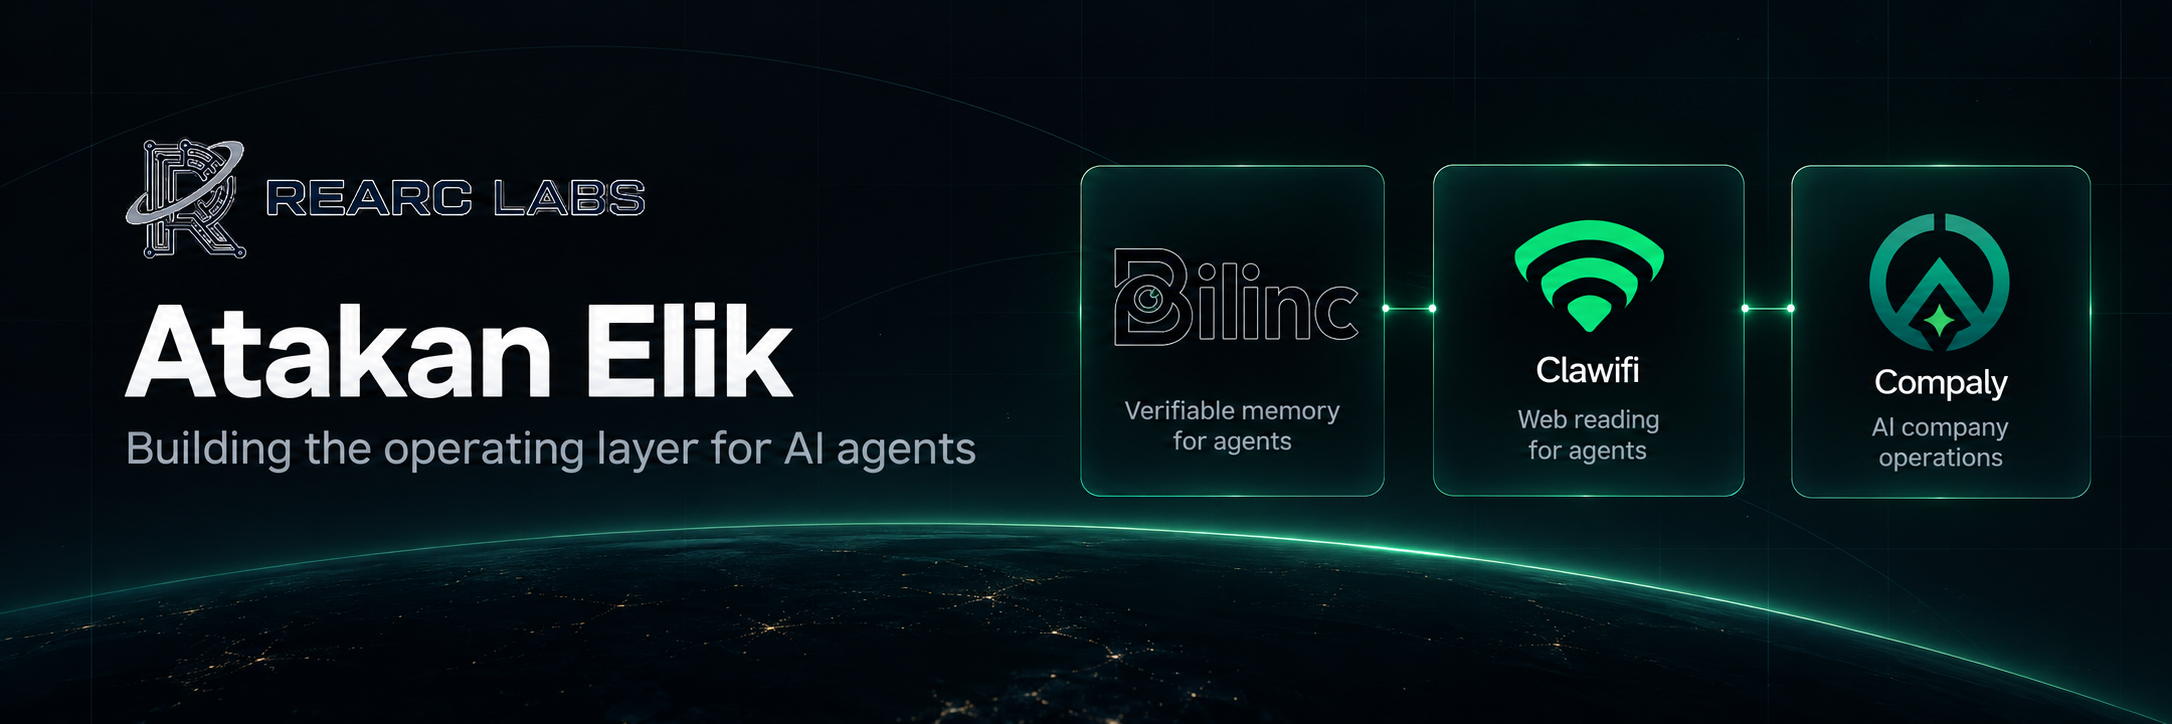
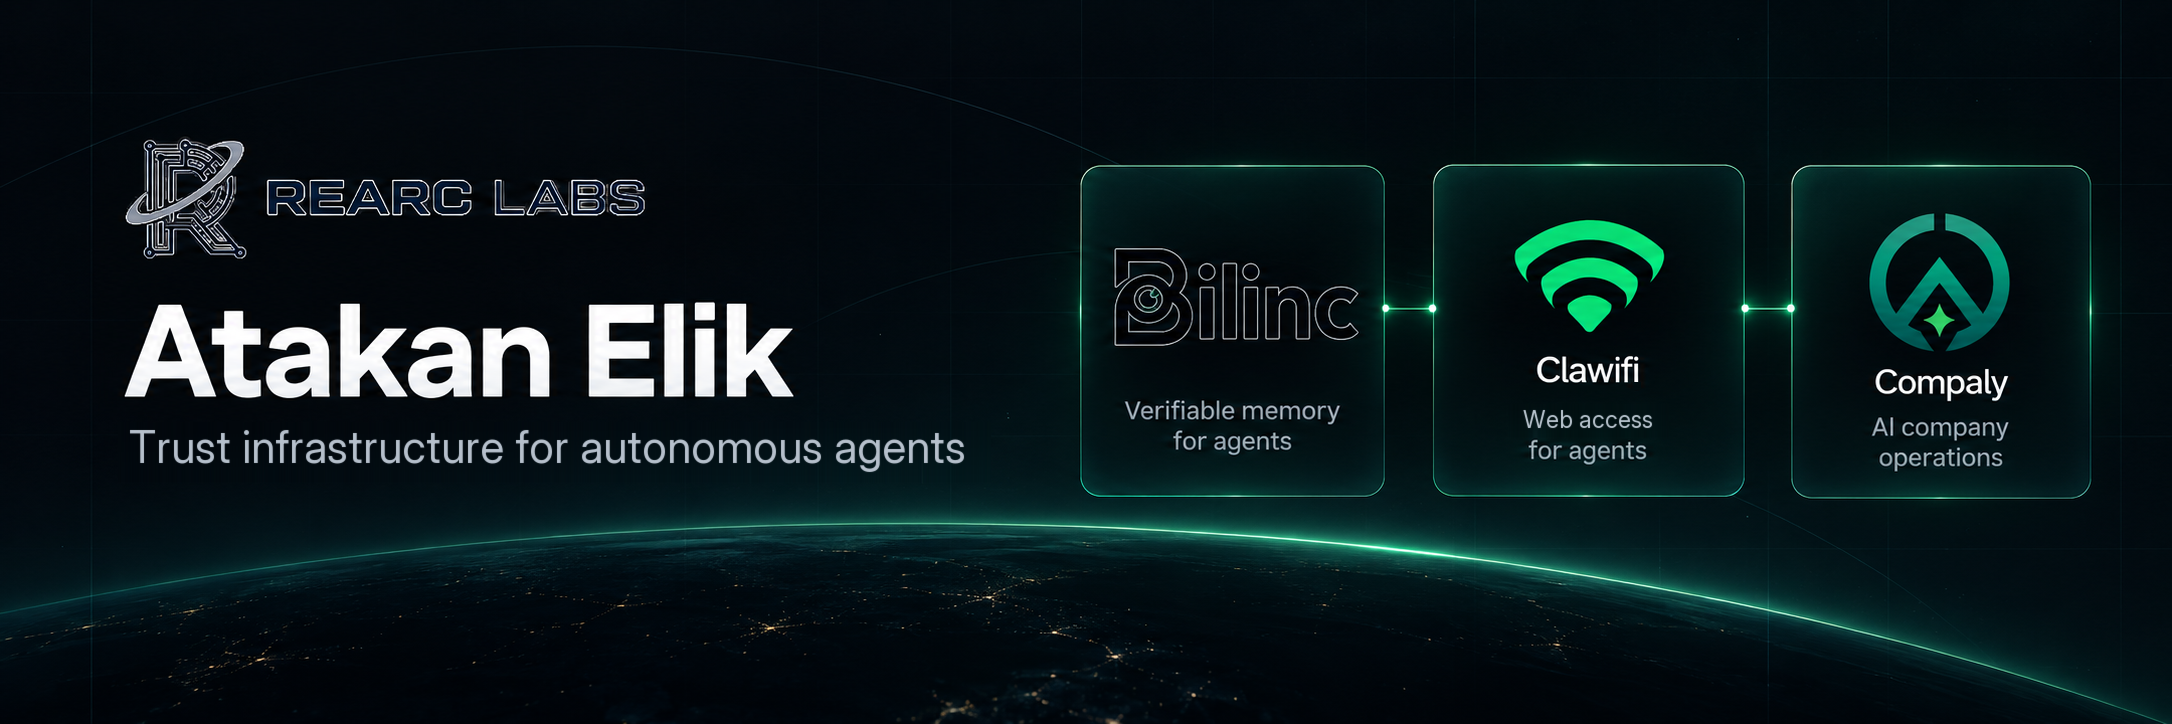
Profile: trust infrastructure line, try-it commands, current Bilinc and Clawifi copy
- heading names the founder and ReARC Labs; disambiguation from Rearc
- try-it block with the install and MCP commands from the live docs
- Bilinc and Clawifi cards match bilinc.space and clawifi.dev wording
- new repos: Bilinc Memory History and the Bilinc/Clawifi plugins
- banner subtitle and Clawifi card repainted to match the sites
- drop the stack row, language badges and stat cards

Changed region(s): [[0.0617, 0.5773, 0.4627, 0.6685], [0.6786, 0.547, 0.7712, 0.6077]]

diff --git a/README.md b/README.md
@@ -1,23 +1,32 @@
 <div align="center">
-  <img src="./assets/rearc-agent-layer.png" alt="Atakan Elik — ReARC Labs agent infrastructure" width="100%" />
+  <img src="./assets/rearc-agent-layer.png" alt="Atakan Elik, ReARC Labs. Trust infrastructure for autonomous agents. Bilinc: verifiable memory for agents. Clawifi: web access for agents. Compaly: AI company operations." width="100%" />
 </div>
 
-<br />
+## Atakan Elik, founder of ReARC Labs
 
-<div align="center">
+I run [ReARC Labs Inc.](https://rearclabs.com) We build trust infrastructure for autonomous agents: what agents need before they can be trusted to act on their own. Today that is two products: **Bilinc**, verifiable memory for AI agents, and **Clawifi**, web access for AI agents.
 
-[![ReARC Labs](https://img.shields.io/badge/ReARC%20Labs-operating%20layer%20for%20agents-0B1220?style=for-the-badge)](https://rearclabs.com)
-[![Python](https://img.shields.io/badge/Python-agent%20systems-3776AB?style=for-the-badge&logo=python&logoColor=white)](https://www.python.org/)
-[![TypeScript](https://img.shields.io/badge/TypeScript-product%20surfaces-3178C6?style=for-the-badge&logo=typescript&logoColor=white)](https://www.typescriptlang.org/)
-[![MCP](https://img.shields.io/badge/MCP-tool%20native%20agents-111827?style=for-the-badge)](https://modelcontextprotocol.io/)
+ReARC Labs is the team behind Bilinc and Clawifi. It is not related to Rearc (rearc.io).
 
-</div>
+## Try it
 
-## Building the operating layer for autonomous agents
+```bash
+# Bilinc. Free tier, no card required. The login step opens your browser.
+pip install -U bilinc
+bilinc login
+bilinc quicktest
 
-I'm Atakan Elik, founder of **ReARC Labs**. I build infrastructure for agents that need to remember, read the web, and keep state that people can inspect.
+# Bilinc in Claude Code. You sign in through the browser.
+claude mcp add --transport http --scope user bilinc https://mcp.bilinc.space/mcp
 
-The thesis is simple: capable agents need more than model calls. They need durable, verifiable memory, reliable access to the web, and records that humans can check and roll back.
+# Clawifi in Claude Code. The hosted server works without a key as a trial.
+claude mcp add --transport http clawifi https://api.clawifi.dev/mcp
+
+# Clawifi Python client
+pip install clawifi
+```
+
+Nothing to install: the [Clawifi Playground](https://clawifi.dev/playground) runs with no sign-up.
 
 <table>
 <tr>
@@ -25,84 +34,55 @@ The thesis is simple: capable agents need more than model calls. They need durab
 
 ### Bilinc
 
-Verifiable memory for AI agents.
+Bilinc is verifiable memory for AI agents, made by ReARC Labs. It is a company brain your agents share: it keeps what they learn current, shows who wrote what, and lets you undo it.
 
-- commit, recall and revise agent state
-- provenance, snapshots, diff and rollback
-- hosted MCP connector, Python SDK and CLI
+- durable hosted memory with provenance, history and rollback
+- Python SDK, CLI and MCP connector, with setup guides for Claude Code, Codex, Cursor, ChatGPT, Claude Desktop and Hermes Agent
+- read your agent's memory as a folder of Markdown
 
-[Website →](https://bilinc.space) · [GitHub →](https://github.com/atakanelik34/Bilinc) · [PyPI →](https://pypi.org/project/bilinc/)
+[bilinc.space](https://bilinc.space) · [Install Bilinc](https://bilinc.space/install) · [Bilinc on GitHub](https://github.com/atakanelik34/Bilinc) · [Bilinc on PyPI](https://pypi.org/project/bilinc/)
 
 </td>
 <td width="50%" valign="top">
 
 ### Clawifi
 
-Web reading for AI agents.
+Clawifi is web access for AI agents, made by ReARC Labs. It searches many engines as one, reads pages and PDFs, and gives back the passages that answer the question, each with its source.
 
-- search the web, fetch and scrape pages and PDFs
-- map and crawl sites
-- only the passages that answer a question
-- remote MCP server, try it without a key
+- search, fetch, scrape, map, crawl and browse, plus batch jobs and monitors
+- hosted remote MCP, Python SDK, CLI and HTTP API
+- public beta; the Free plan includes 1,000 credits a month
 
-[Website →](https://clawifi.dev) · [GitHub →](https://github.com/atakanelik34/clawifi-mcp) · [PyPI →](https://pypi.org/project/clawifi/)
+[clawifi.dev](https://clawifi.dev) · [Clawifi quickstart](https://clawifi.dev/docs/quickstart) · [clawifi-mcp on GitHub](https://github.com/atakanelik34/clawifi-mcp) · [Clawifi on PyPI](https://pypi.org/project/clawifi/)
 
 </td>
 </tr>
 </table>
 
-## Current focus
+## More repos
 
-```txt
-memory layer      Bilinc      durable agent state, recall, provenance, rollback
-web layer         Clawifi     search, fetch, crawl, passages that answer, MCP
-company layer     Compaly     AI-native company operations (in development)
-```
+- [Bilinc Memory History](https://github.com/atakanelik34/bilinc-memory-history) keeps a local history of the memory files Claude Code and Hermes Agent write. See what changed, and put an old version back. Open source, MIT.
+- Bilinc plugins: [bilinc-cursor-plugin](https://github.com/atakanelik34/bilinc-cursor-plugin) · [bilinc-claude-plugin](https://github.com/ReARCLabs/bilinc-claude-plugin) · [bilinc-hermes-plugin](https://github.com/ReARCLabs/bilinc-hermes-plugin)
+- Clawifi plugin: [clawifi-claude-plugin](https://github.com/ReARCLabs/clawifi-claude-plugin)
 
-## Product surfaces
-
-- [ReARC Labs](https://rearclabs.com) — the company behind these products
-- [Bilinc](https://bilinc.space) — verifiable memory for AI agents
-- [Clawifi](https://clawifi.dev) — web reading for AI agents
-- [ARES Protocol](https://ares-protocol.xyz) — agent reputation research (paused)
-
-## Stack I keep close
-
-<p>
-  <img src="https://img.shields.io/badge/Python-0B1220?style=flat-square&logo=python&logoColor=3776AB" />
-  <img src="https://img.shields.io/badge/TypeScript-0B1220?style=flat-square&logo=typescript&logoColor=3178C6" />
-  <img src="https://img.shields.io/badge/FastAPI-0B1220?style=flat-square&logo=fastapi&logoColor=009688" />
-  <img src="https://img.shields.io/badge/Next.js-0B1220?style=flat-square&logo=nextdotjs&logoColor=white" />
-  <img src="https://img.shields.io/badge/PostgreSQL-0B1220?style=flat-square&logo=postgresql&logoColor=4169E1" />
-  <img src="https://img.shields.io/badge/SQLite-0B1220?style=flat-square&logo=sqlite&logoColor=003B57" />
-  <img src="https://img.shields.io/badge/Docker-0B1220?style=flat-square&logo=docker&logoColor=2496ED" />
-</p>
-
-## Selected public work
+Also at ReARC Labs: Compaly, AI company operations, is in development. ARES Protocol, an identity for each agent and a public record of what it did, is paused.
 
 <p>
   <a href="https://pepy.tech/projects/bilinc">
-    <img alt="Bilinc PyPI downloads" src="https://static.pepy.tech/badge/bilinc" />
+    <img alt="Bilinc downloads on PyPI" src="https://static.pepy.tech/badge/bilinc" />
+  </a>
+  <a href="https://pypi.org/project/bilinc/">
+    <img alt="Bilinc version on PyPI" src="https://img.shields.io/pypi/v/bilinc?style=flat-square&label=bilinc&color=0B1220" />
   </a>
   <a href="https://pypi.org/project/clawifi/">
-    <img alt="Clawifi on PyPI" src="https://img.shields.io/pypi/v/clawifi?style=flat-square&label=clawifi&color=0B1220" />
+    <img alt="Clawifi version on PyPI" src="https://img.shields.io/pypi/v/clawifi?style=flat-square&label=clawifi&color=0B1220" />
   </a>
   <img alt="Hugging Face Istanbul speaker" src="https://img.shields.io/badge/Hugging%20Face%20Istanbul-speaker-FFD21E?style=flat-square&logo=huggingface&logoColor=111827" />
 </p>
 
-<a href="https://github.com/atakanelik34/Bilinc">
-  <img align="center" src="https://github-readme-stats.vercel.app/api/pin/?username=atakanelik34&repo=Bilinc&theme=github_dark&hide_border=true&bg_color=0B1220&title_color=E5E7EB&text_color=9CA3AF&icon_color=22C55E" />
-</a>
-<a href="https://github.com/atakanelik34/clawifi-mcp">
-  <img align="center" src="https://github-readme-stats.vercel.app/api/pin/?username=atakanelik34&repo=clawifi-mcp&theme=github_dark&hide_border=true&bg_color=0B1220&title_color=E5E7EB&text_color=9CA3AF&icon_color=38BDF8" />
-</a>
+## Elsewhere
 
-<br />
-<br />
-
-<div align="center">
-  <img src="https://streak-stats.demolab.com?user=atakanelik34&theme=github-dark-blue&hide_border=true&background=0B1220&ring=22C55E&fire=22C55E&currStreakLabel=E5E7EB" alt="Atakan's GitHub contributions, including private repositories" />
-</div>
+[Atakan Elik on X](https://x.com/AtakanElik_) · [Atakan Elik on LinkedIn](https://www.linkedin.com/in/atakanelik) · [ReARC Labs on GitHub](https://github.com/ReARCLabs) · [ReARC Labs on X](https://x.com/rearclabs) · [ReARC Labs on LinkedIn](https://www.linkedin.com/company/rearclabs)
 
 ---
 
